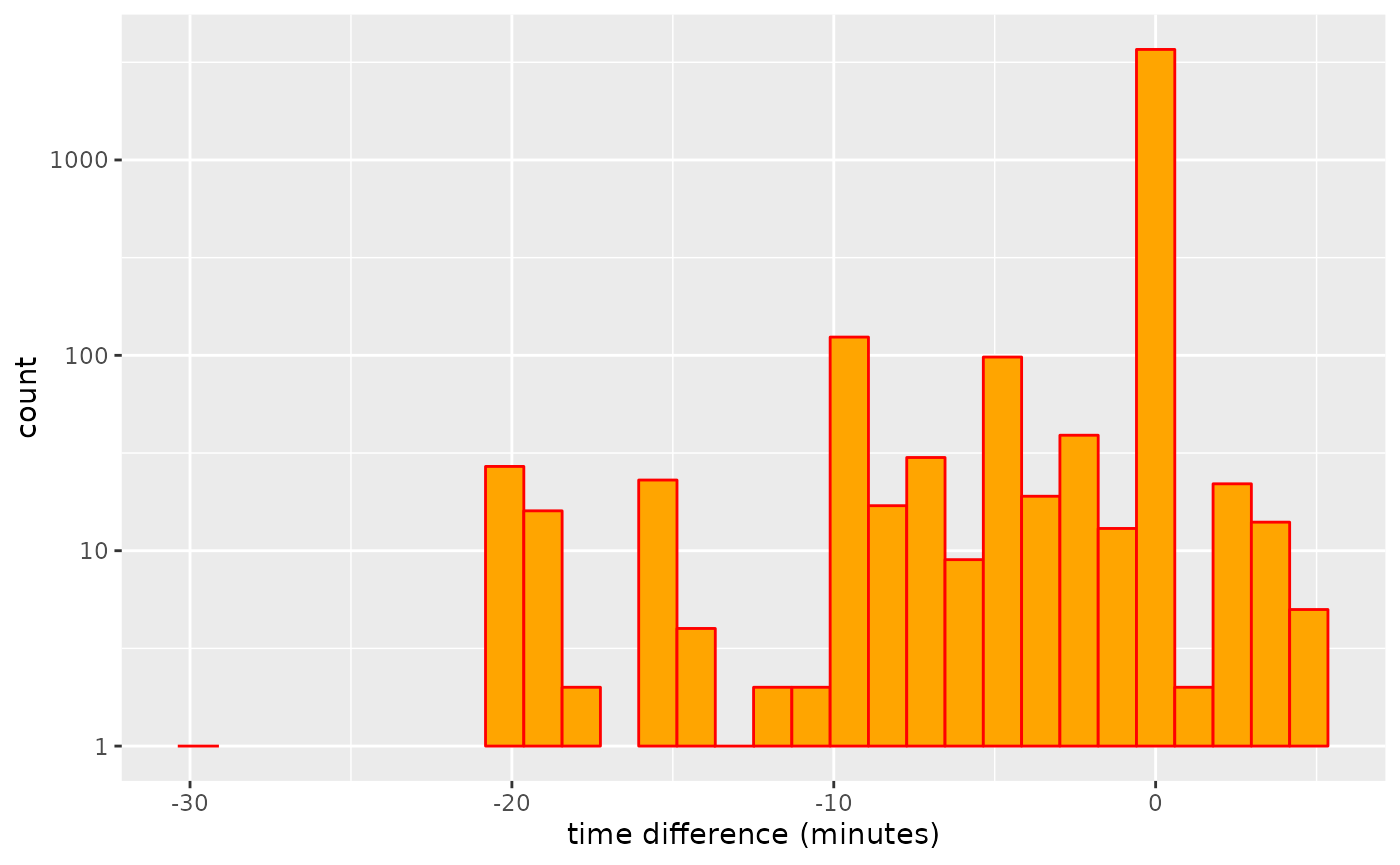
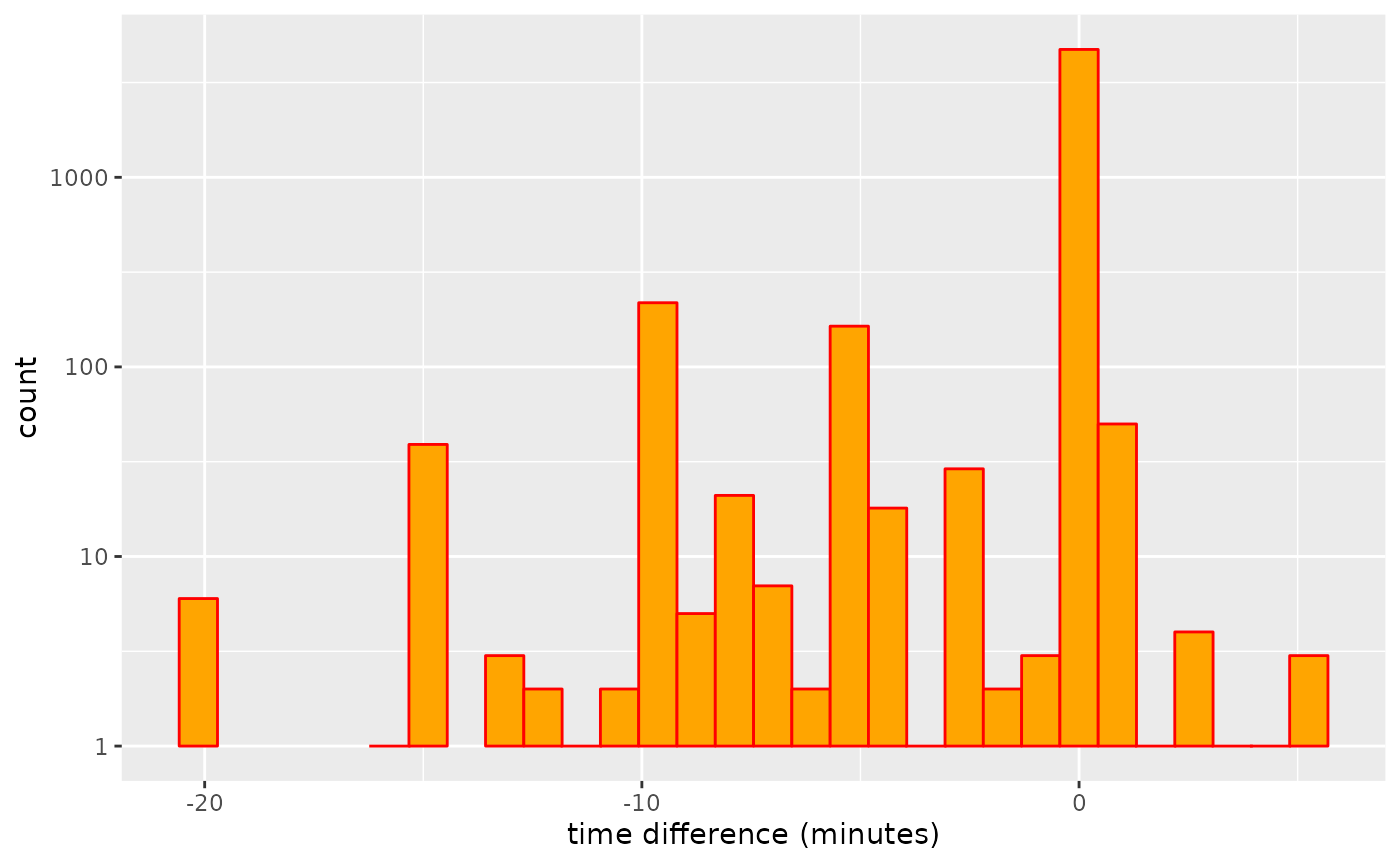
Deploying to gh-pages from @ ATFutures/gtfs-router@710cb2725167a15fc9db3aaeee1c91d8430e2538 🚀

diff --git a/docs/articles/transfers.html b/docs/articles/transfers.html
@@ -33,7 +33,7 @@
       </button>
       <span class="navbar-brand">
         <a class="navbar-link" href="../index.html">gtfsrouter</a>
-        <span class="version label label-default" data-toggle="tooltip" data-placement="bottom" title="">0.0.5.101</span>
+        <span class="version label label-default" data-toggle="tooltip" data-placement="bottom" title="">0.0.5.102</span>
       </span>
     </div>
 
@@ -447,7 +447,7 @@
 <span>    <span class="fu"><a href="https://ggplot2.tidyverse.org/reference/scale_continuous.html" class="external-link">scale_y_log10</a></span> <span class="op">(</span><span class="op">)</span> <span class="op">+</span></span>
 <span>    <span class="fu"><a href="https://ggplot2.tidyverse.org/reference/labs.html" class="external-link">xlab</a></span> <span class="op">(</span><span class="st">"time difference (minutes)"</span><span class="op">)</span></span></code></pre></div>
 <p><img src="transfers_files/figure-html/plot1-1.png" width="700"></p>
-<p>And these additional transfer possibilities can make a significant difference to estimated travel times. Note, however, that the travel times only changed for 461 stations, while the value of <code>nsame</code> value recording numbers of stations for which travel times did not change was 3,896. Travel times may also increase as additional transfers may be used to reduce numbers of connecting services required for a particular trip, and the algorithm generally searches for connections with minimal numbers of transfers.</p>
+<p>And these additional transfer possibilities can make a significant difference to estimated travel times. Note, however, that the travel times only changed for 590 stations, while the value of <code>nsame</code> value recording numbers of stations for which travel times did not change was 3,677. Travel times may also increase as additional transfers may be used to reduce numbers of connecting services required for a particular trip, and the algorithm generally searches for connections with minimal numbers of transfers.</p>
 <p>The following code the quantifies the overall effect of these reductions in travel times, measured as the linear reduction in comparison with travel times calculated using the original transfers table provided with the feed. The function also returns the proportion of all stations for which travel times were affected by the modified transfer table.</p>
 <div class="sourceCode" id="cb42"><pre class="downlit sourceCode r">
 <code class="sourceCode R"><span><span class="va">transfer_difference</span> <span class="op">&lt;-</span> <span class="kw">function</span> <span class="op">(</span><span class="va">gtfs</span>,</span>
@@ -514,7 +514,7 @@
 <span>    <span class="fu"><a href="https://ggplot2.tidyverse.org/reference/geom_point.html" class="external-link">geom_point</a></span> <span class="op">(</span>pch <span class="op">=</span> <span class="fl">19</span>, col <span class="op">=</span> <span class="st">"orange"</span><span class="op">)</span> <span class="op">+</span></span>
 <span>    <span class="fu"><a href="https://ggplot2.tidyverse.org/reference/geom_smooth.html" class="external-link">geom_smooth</a></span> <span class="op">(</span>method <span class="op">=</span> <span class="st">"loess"</span>, formula <span class="op">=</span> <span class="st">"y ~ x"</span><span class="op">)</span></span></code></pre></div>
 <p><img src="transfers_files/figure-html/transfer_d_limit_results-1.png" width="700"></p>
-<p>That result shows that travel times do decrease with increasing limits of maximal transfer distance, although the overall effect is very minimal. The object <code>d</code> also records the proportion of station pairs for which modifications to the transfers table actually changed travel times, which in this case amounts to a mean value of 0.0061, clearly revealing that very few trips actually change.</p>
+<p>That result shows that travel times do decrease with increasing limits of maximal transfer distance, although the overall effect is very minimal. The object <code>d</code> also records the proportion of station pairs for which modifications to the transfers table actually changed travel times, which in this case amounts to a mean value of 0.0054, clearly revealing that very few trips actually change.</p>
 <div class="section level3">
 <h3 id="a-more-realistic-example">A more realistic example<a class="anchor" aria-label="anchor" href="#a-more-realistic-example"></a>
 </h3>

diff --git a/docs/articles/gtfsrouter.html b/docs/articles/gtfsrouter.html
@@ -33,7 +33,7 @@
       </button>
       <span class="navbar-brand">
         <a class="navbar-link" href="../index.html">gtfsrouter</a>
-        <span class="version label label-default" data-toggle="tooltip" data-placement="bottom" title="">0.0.5.101</span>
+        <span class="version label label-default" data-toggle="tooltip" data-placement="bottom" title="">0.0.5.102</span>
       </span>
     </div>
 
@@ -95,7 +95,7 @@
 <p>The one thing neither of these packages enable is the use of GTFS data for transit routing. The <code>gtfsrouter</code> package enables both one-to-one and one-to-many routing. Functionality is demonstrated here through the sample data set included with the package, provided by the “Verkehrsverbund Berlin-Brandenburg” (VBB; or Transport Network Berlin-Brandenburg). The <code>berlin_gtfs</code> data represents a reduced version of the full GTFS data, containing only six tables, and a timetable reduced to the single hour between 12:00-13:00. Like all GTFS software including <a href="https://github.com/r-transit/tidytransit" class="external-link"><code>tidytransit</code></a>, this package is designed to work directly with GTFS data in <code>.zip</code>-archived format, and so includes a helper function, <code><a href="../reference/berlin_gtfs_to_zip.html">berlin_gtfs_to_zip()</a></code>, which exports the internal data set to a locally-stored <code>.zip</code> archive in the <code><a href="https://rdrr.io/r/base/tempfile.html" class="external-link">tempdir()</a></code> of the current <strong>R</strong> session. These data can be exported and re-imported with:</p>
 <div class="sourceCode" id="cb1"><pre class="downlit sourceCode r">
 <code class="sourceCode R"><span><span class="fu"><a href="../reference/berlin_gtfs_to_zip.html">berlin_gtfs_to_zip</a></span><span class="op">(</span><span class="op">)</span></span></code></pre></div>
-<pre><code><span><span class="co">## [1] "/tmp/RtmpgCS5mX/vbb.zip"</span></span></code></pre>
+<pre><code><span><span class="co">## [1] "/tmp/RtmpgVlPrb/vbb.zip"</span></span></code></pre>
 <div class="sourceCode" id="cb3"><pre class="downlit sourceCode r">
 <code class="sourceCode R"><span><span class="va">f</span> <span class="op">&lt;-</span> <span class="fu"><a href="https://rdrr.io/r/base/file.path.html" class="external-link">file.path</a></span> <span class="op">(</span><span class="fu"><a href="https://rdrr.io/r/base/tempfile.html" class="external-link">tempdir</a></span> <span class="op">(</span><span class="op">)</span>, <span class="st">"vbb.zip"</span><span class="op">)</span></span>
 <span><span class="fu"><a href="https://rdrr.io/r/base/files.html" class="external-link">file.exists</a></span> <span class="op">(</span><span class="va">f</span><span class="op">)</span></span></code></pre></div>
@@ -286,7 +286,7 @@
 <span>                day <span class="op">=</span> <span class="st">"Sunday"</span><span class="op">)</span></span>
 <span>    <span class="op">)</span></span></code></pre></div>
 <pre><code><span><span class="co">##    user  system elapsed </span></span>
-<span><span class="co">##   0.065   0.000   0.064</span></span></code></pre>
+<span><span class="co">##    0.07    0.00    0.07</span></span></code></pre>
 <div class="sourceCode" id="cb14"><pre class="downlit sourceCode r">
 <code class="sourceCode R"><span><span class="fu"><a href="https://rdrr.io/r/base/names.html" class="external-link">names</a></span> <span class="op">(</span><span class="va">gtfs</span><span class="op">)</span></span></code></pre></div>
 <pre><code><span><span class="co">## [1] "calendar"   "routes"     "trips"      "stop_times" "stops"     </span></span>
@@ -304,7 +304,7 @@
 <span>                         to <span class="op">=</span> <span class="va">to</span>,</span>
 <span>                         start_time <span class="op">=</span> <span class="st">"12:00:00"</span><span class="op">)</span><span class="op">)</span></span></code></pre></div>
 <pre><code><span><span class="co">##    user  system elapsed </span></span>
-<span><span class="co">##   0.049   0.000   0.049</span></span></code></pre>
+<span><span class="co">##   0.054   0.000   0.054</span></span></code></pre>
 <p>Note that the <code>day</code> parameter is used to extract the timetable, after which it is no longer required in the actual call to <code><a href="../reference/gtfs_route.html">gtfs_route()</a></code>.</p>
 </div>
 <div class="section level3">

diff --git a/docs/reference/gtfs_transfer_table.html b/docs/reference/gtfs_transfer_table.html
@@ -17,7 +17,7 @@
       </button>
       <span class="navbar-brand">
         <a class="navbar-link" href="../index.html">gtfsrouter</a>
-        <span class="version label label-default" data-toggle="tooltip" data-placement="bottom" title="">0.0.5.101</span>
+        <span class="version label label-default" data-toggle="tooltip" data-placement="bottom" title="">0.0.5.102</span>
       </span>
     </div>
 
@@ -112,7 +112,7 @@ throughout the underlying street network. If this is not provided as the
     <div id="ref-examples">
     <h2>Examples</h2>
     <div class="sourceCode"><pre class="sourceCode r"><code><span class="r-in"><span><span class="fu"><a href="berlin_gtfs_to_zip.html">berlin_gtfs_to_zip</a></span> <span class="op">(</span><span class="op">)</span></span></span>
-<span class="r-out co"><span class="r-pr">#&gt;</span> [1] "/tmp/RtmpMFn162/vbb.zip"</span>
+<span class="r-out co"><span class="r-pr">#&gt;</span> [1] "/tmp/RtmppdXH55/vbb.zip"</span>
 <span class="r-in"><span><span class="va">f</span> <span class="op">&lt;-</span> <span class="fu"><a href="https://rdrr.io/r/base/file.path.html" class="external-link">file.path</a></span> <span class="op">(</span><span class="fu"><a href="https://rdrr.io/r/base/tempfile.html" class="external-link">tempdir</a></span> <span class="op">(</span><span class="op">)</span>, <span class="st">"vbb.zip"</span><span class="op">)</span></span></span>
 <span class="r-in"><span><span class="va">g</span> <span class="op">&lt;-</span> <span class="fu"><a href="extract_gtfs.html">extract_gtfs</a></span> <span class="op">(</span><span class="va">f</span>, quiet <span class="op">=</span> <span class="cn">TRUE</span><span class="op">)</span></span></span>
 <span class="r-in"><span><span class="va">g</span> <span class="op">&lt;-</span> <span class="fu">gtfs_transfer_table</span> <span class="op">(</span><span class="va">g</span>, d_limit <span class="op">=</span> <span class="fl">200</span><span class="op">)</span></span></span>

diff --git a/docs/reference/gtfs_route.html b/docs/reference/gtfs_route.html
@@ -18,7 +18,7 @@ a specified time."><!-- mathjax --><script src="https://cdnjs.cloudflare.com/aja
       </button>
       <span class="navbar-brand">
         <a class="navbar-link" href="../index.html">gtfsrouter</a>
-        <span class="version label label-default" data-toggle="tooltip" data-placement="bottom" title="">0.0.5.101</span>
+        <span class="version label label-default" data-toggle="tooltip" data-placement="bottom" title="">0.0.5.102</span>
       </span>
     </div>
 
@@ -182,7 +182,7 @@ can be calculated by setting <code>earliest_arrival = FALSE</code>.</p>
     <div id="ref-examples">
     <h2>Examples</h2>
     <div class="sourceCode"><pre class="sourceCode r"><code><span class="r-in"><span><span class="fu"><a href="berlin_gtfs_to_zip.html">berlin_gtfs_to_zip</a></span> <span class="op">(</span><span class="op">)</span> <span class="co"># Write sample feed from Berlin, Germany to tempdir</span></span></span>
-<span class="r-out co"><span class="r-pr">#&gt;</span> [1] "/tmp/RtmpMFn162/vbb.zip"</span>
+<span class="r-out co"><span class="r-pr">#&gt;</span> [1] "/tmp/RtmppdXH55/vbb.zip"</span>
 <span class="r-in"><span><span class="va">f</span> <span class="op">&lt;-</span> <span class="fu"><a href="https://rdrr.io/r/base/file.path.html" class="external-link">file.path</a></span> <span class="op">(</span><span class="fu"><a href="https://rdrr.io/r/base/tempfile.html" class="external-link">tempdir</a></span> <span class="op">(</span><span class="op">)</span>, <span class="st">"vbb.zip"</span><span class="op">)</span> <span class="co"># name of feed</span></span></span>
 <span class="r-in"><span><span class="va">gtfs</span> <span class="op">&lt;-</span> <span class="fu"><a href="extract_gtfs.html">extract_gtfs</a></span> <span class="op">(</span><span class="va">f</span><span class="op">)</span></span></span>
 <span class="r-msg co"><span class="r-pr">#&gt;</span> ▶<span style="color: #00BB00;"> Unzipping GTFS archive</span></span>

diff --git a/docs/articles/traveltimes.html b/docs/articles/traveltimes.html
@@ -33,7 +33,7 @@
       </button>
       <span class="navbar-brand">
         <a class="navbar-link" href="../index.html">gtfsrouter</a>
-        <span class="version label label-default" data-toggle="tooltip" data-placement="bottom" title="">0.0.5.101</span>
+        <span class="version label label-default" data-toggle="tooltip" data-placement="bottom" title="">0.0.5.102</span>
       </span>
     </div>
 
@@ -86,7 +86,7 @@
 <div class="sourceCode" id="cb1"><pre class="downlit sourceCode r">
 <code class="sourceCode R"><span><span class="kw"><a href="https://rdrr.io/r/base/library.html" class="external-link">library</a></span> <span class="op">(</span><span class="va"><a href="https://github.com/ATFutures/gtfs-router" class="external-link">gtfsrouter</a></span><span class="op">)</span></span>
 <span><span class="fu"><a href="../reference/berlin_gtfs_to_zip.html">berlin_gtfs_to_zip</a></span> <span class="op">(</span><span class="op">)</span></span></code></pre></div>
-<pre><code><span><span class="co">## [1] "/tmp/RtmpFMMNQF/vbb.zip"</span></span></code></pre>
+<pre><code><span><span class="co">## [1] "/tmp/RtmpXQsC9t/vbb.zip"</span></span></code></pre>
 <div class="sourceCode" id="cb3"><pre class="downlit sourceCode r">
 <code class="sourceCode R"><span><span class="va">f</span> <span class="op">&lt;-</span> <span class="fu"><a href="https://rdrr.io/r/base/file.path.html" class="external-link">file.path</a></span> <span class="op">(</span><span class="fu"><a href="https://rdrr.io/r/base/tempfile.html" class="external-link">tempdir</a></span> <span class="op">(</span><span class="op">)</span>, <span class="st">"vbb.zip"</span><span class="op">)</span></span>
 <span><span class="va">gtfs</span> <span class="op">&lt;-</span> <span class="fu"><a href="../reference/extract_gtfs.html">extract_gtfs</a></span> <span class="op">(</span><span class="va">f</span>, quiet <span class="op">=</span> <span class="cn">TRUE</span><span class="op">)</span></span>

diff --git a/docs/reference/berlin_gtfs.html b/docs/reference/berlin_gtfs.html
@@ -23,7 +23,7 @@ characters.'><!-- mathjax --><script src="https://cdnjs.cloudflare.com/ajax/libs
       </button>
       <span class="navbar-brand">
         <a class="navbar-link" href="../index.html">gtfsrouter</a>
-        <span class="version label label-default" data-toggle="tooltip" data-placement="bottom" title="">0.0.5.101</span>
+        <span class="version label label-default" data-toggle="tooltip" data-placement="bottom" title="">0.0.5.102</span>
       </span>
     </div>
 
@@ -96,7 +96,7 @@ for which no route is possible return <code>NULL</code>.</p>
     <div id="ref-examples">
     <h2>Examples</h2>
     <div class="sourceCode"><pre class="sourceCode r"><code><span class="r-in"><span><span class="fu"><a href="berlin_gtfs_to_zip.html">berlin_gtfs_to_zip</a></span> <span class="op">(</span><span class="op">)</span> <span class="co"># Write sample feed from Berlin, Germany to tempdir</span></span></span>
-<span class="r-out co"><span class="r-pr">#&gt;</span> [1] "/tmp/RtmpMFn162/vbb.zip"</span>
+<span class="r-out co"><span class="r-pr">#&gt;</span> [1] "/tmp/RtmppdXH55/vbb.zip"</span>
 <span class="r-in"><span><span class="va">f</span> <span class="op">&lt;-</span> <span class="fu"><a href="https://rdrr.io/r/base/file.path.html" class="external-link">file.path</a></span> <span class="op">(</span><span class="fu"><a href="https://rdrr.io/r/base/tempfile.html" class="external-link">tempdir</a></span> <span class="op">(</span><span class="op">)</span>, <span class="st">"vbb.zip"</span><span class="op">)</span> <span class="co"># name of feed</span></span></span>
 <span class="r-in"><span><span class="va">gtfs</span> <span class="op">&lt;-</span> <span class="fu"><a href="extract_gtfs.html">extract_gtfs</a></span> <span class="op">(</span><span class="va">f</span><span class="op">)</span></span></span>
 <span class="r-msg co"><span class="r-pr">#&gt;</span> ▶<span style="color: #00BB00;"> Unzipping GTFS archive</span></span>

diff --git a/docs/reference/gtfs_timetable.html b/docs/reference/gtfs_timetable.html
@@ -17,7 +17,7 @@
       </button>
       <span class="navbar-brand">
         <a class="navbar-link" href="../index.html">gtfsrouter</a>
-        <span class="version label label-default" data-toggle="tooltip" data-placement="bottom" title="">0.0.5.101</span>
+        <span class="version label label-default" data-toggle="tooltip" data-placement="bottom" title="">0.0.5.102</span>
       </span>
     </div>
 
@@ -126,7 +126,7 @@ that case will generally take longer.</p>
     <div id="ref-examples">
     <h2>Examples</h2>
     <div class="sourceCode"><pre class="sourceCode r"><code><span class="r-in"><span><span class="fu"><a href="berlin_gtfs_to_zip.html">berlin_gtfs_to_zip</a></span> <span class="op">(</span><span class="op">)</span> <span class="co"># Write sample feed from Berlin, Germany to tempdir</span></span></span>
-<span class="r-out co"><span class="r-pr">#&gt;</span> [1] "/tmp/RtmpMFn162/vbb.zip"</span>
+<span class="r-out co"><span class="r-pr">#&gt;</span> [1] "/tmp/RtmppdXH55/vbb.zip"</span>
 <span class="r-in"><span><span class="va">f</span> <span class="op">&lt;-</span> <span class="fu"><a href="https://rdrr.io/r/base/file.path.html" class="external-link">file.path</a></span> <span class="op">(</span><span class="fu"><a href="https://rdrr.io/r/base/tempfile.html" class="external-link">tempdir</a></span> <span class="op">(</span><span class="op">)</span>, <span class="st">"vbb.zip"</span><span class="op">)</span> <span class="co"># name of feed</span></span></span>
 <span class="r-in"><span><span class="va">gtfs</span> <span class="op">&lt;-</span> <span class="fu"><a href="extract_gtfs.html">extract_gtfs</a></span> <span class="op">(</span><span class="va">f</span><span class="op">)</span></span></span>
 <span class="r-msg co"><span class="r-pr">#&gt;</span> ▶<span style="color: #00BB00;"> Unzipping GTFS archive</span></span>

diff --git a/docs/reference/gtfs_traveltimes.html b/docs/reference/gtfs_traveltimes.html
@@ -18,7 +18,7 @@ other reachable station in a system."><!-- mathjax --><script src="https://cdnjs
       </button>
       <span class="navbar-brand">
         <a class="navbar-link" href="../index.html">gtfsrouter</a>
-        <span class="version label label-default" data-toggle="tooltip" data-placement="bottom" title="">0.0.5.101</span>
+        <span class="version label label-default" data-toggle="tooltip" data-placement="bottom" title="">0.0.5.102</span>
       </span>
     </div>
 
@@ -155,7 +155,7 @@ to reach all or most stations desired for a particular query, rather than set
     <div id="ref-examples">
     <h2>Examples</h2>
     <div class="sourceCode"><pre class="sourceCode r"><code><span class="r-in"><span><span class="fu"><a href="berlin_gtfs_to_zip.html">berlin_gtfs_to_zip</a></span> <span class="op">(</span><span class="op">)</span></span></span>
-<span class="r-out co"><span class="r-pr">#&gt;</span> [1] "/tmp/RtmpMFn162/vbb.zip"</span>
+<span class="r-out co"><span class="r-pr">#&gt;</span> [1] "/tmp/RtmppdXH55/vbb.zip"</span>
 <span class="r-in"><span><span class="va">f</span> <span class="op">&lt;-</span> <span class="fu"><a href="https://rdrr.io/r/base/file.path.html" class="external-link">file.path</a></span> <span class="op">(</span><span class="fu"><a href="https://rdrr.io/r/base/tempfile.html" class="external-link">tempdir</a></span> <span class="op">(</span><span class="op">)</span>, <span class="st">"vbb.zip"</span><span class="op">)</span></span></span>
 <span class="r-in"><span><span class="va">g</span> <span class="op">&lt;-</span> <span class="fu"><a href="extract_gtfs.html">extract_gtfs</a></span> <span class="op">(</span><span class="va">f</span><span class="op">)</span></span></span>
 <span class="r-msg co"><span class="r-pr">#&gt;</span> ▶<span style="color: #00BB00;"> Unzipping GTFS archive</span></span>

diff --git a/docs/reference/extract_gtfs.html b/docs/reference/extract_gtfs.html
@@ -17,7 +17,7 @@
       </button>
       <span class="navbar-brand">
         <a class="navbar-link" href="../index.html">gtfsrouter</a>
-        <span class="version label label-default" data-toggle="tooltip" data-placement="bottom" title="">0.0.5.101</span>
+        <span class="version label label-default" data-toggle="tooltip" data-placement="bottom" title="">0.0.5.102</span>
       </span>
     </div>
 
@@ -102,7 +102,7 @@ function to the two time columns of the "stop_times" table.</p>
     <div id="ref-examples">
     <h2>Examples</h2>
     <div class="sourceCode"><pre class="sourceCode r"><code><span class="r-in"><span><span class="fu"><a href="berlin_gtfs_to_zip.html">berlin_gtfs_to_zip</a></span> <span class="op">(</span><span class="op">)</span> <span class="co"># Write sample feed from Berlin, Germany to tempdir</span></span></span>
-<span class="r-out co"><span class="r-pr">#&gt;</span> [1] "/tmp/RtmpMFn162/vbb.zip"</span>
+<span class="r-out co"><span class="r-pr">#&gt;</span> [1] "/tmp/RtmppdXH55/vbb.zip"</span>
 <span class="r-in"><span><span class="va">f</span> <span class="op">&lt;-</span> <span class="fu"><a href="https://rdrr.io/r/base/file.path.html" class="external-link">file.path</a></span> <span class="op">(</span><span class="fu"><a href="https://rdrr.io/r/base/tempfile.html" class="external-link">tempdir</a></span> <span class="op">(</span><span class="op">)</span>, <span class="st">"vbb.zip"</span><span class="op">)</span> <span class="co"># name of feed</span></span></span>
 <span class="r-in"><span><span class="va">gtfs</span> <span class="op">&lt;-</span> <span class="fu">extract_gtfs</span> <span class="op">(</span><span class="va">f</span><span class="op">)</span></span></span>
 <span class="r-msg co"><span class="r-pr">#&gt;</span> ▶<span style="color: #00BB00;"> Unzipping GTFS archive</span></span>

diff --git a/docs/reference/summary.gtfs.html b/docs/reference/summary.gtfs.html
@@ -17,7 +17,7 @@
       </button>
       <span class="navbar-brand">
         <a class="navbar-link" href="../index.html">gtfsrouter</a>
-        <span class="version label label-default" data-toggle="tooltip" data-placement="bottom" title="">0.0.5.101</span>
+        <span class="version label label-default" data-toggle="tooltip" data-placement="bottom" title="">0.0.5.102</span>
       </span>
     </div>
 
@@ -81,7 +81,7 @@
     <div id="ref-examples">
     <h2>Examples</h2>
     <div class="sourceCode"><pre class="sourceCode r"><code><span class="r-in"><span><span class="fu"><a href="berlin_gtfs_to_zip.html">berlin_gtfs_to_zip</a></span> <span class="op">(</span><span class="op">)</span></span></span>
-<span class="r-out co"><span class="r-pr">#&gt;</span> [1] "/tmp/RtmpMFn162/vbb.zip"</span>
+<span class="r-out co"><span class="r-pr">#&gt;</span> [1] "/tmp/RtmppdXH55/vbb.zip"</span>
 <span class="r-in"><span><span class="va">f</span> <span class="op">&lt;-</span> <span class="fu"><a href="https://rdrr.io/r/base/file.path.html" class="external-link">file.path</a></span> <span class="op">(</span><span class="fu"><a href="https://rdrr.io/r/base/tempfile.html" class="external-link">tempdir</a></span> <span class="op">(</span><span class="op">)</span>, <span class="st">"vbb.zip"</span><span class="op">)</span></span></span>
 <span class="r-in"><span><span class="va">g</span> <span class="op">&lt;-</span> <span class="fu"><a href="extract_gtfs.html">extract_gtfs</a></span> <span class="op">(</span><span class="va">f</span><span class="op">)</span></span></span>
 <span class="r-msg co"><span class="r-pr">#&gt;</span> ▶<span style="color: #00BB00;"> Unzipping GTFS archive</span></span>

diff --git a/docs/authors.html b/docs/authors.html
@@ -17,7 +17,7 @@
       </button>
       <span class="navbar-brand">
         <a class="navbar-link" href="index.html">gtfsrouter</a>
-        <span class="version label label-default" data-toggle="tooltip" data-placement="bottom" title="">0.0.5.101</span>
+        <span class="version label label-default" data-toggle="tooltip" data-placement="bottom" title="">0.0.5.102</span>
       </span>
     </div>
 
@@ -74,13 +74,13 @@
 
     <p>Padgham M, Stepniak M (2022).
 <em>gtfsrouter: Routing with GTFS (General Transit Feed Specification) Data</em>.
-R package version 0.0.5.101, <a href="https://github.com/ATFutures/gtfs-router" class="external-link">https://github.com/ATFutures/gtfs-router</a>. 
+R package version 0.0.5.102, <a href="https://github.com/ATFutures/gtfs-router" class="external-link">https://github.com/ATFutures/gtfs-router</a>. 
 </p>
     <pre>@Manual{,
   title = {gtfsrouter: Routing with GTFS (General Transit Feed Specification) Data},
   author = {Mark Padgham and Marcin Stepniak},
   year = {2022},
-  note = {R package version 0.0.5.101},
+  note = {R package version 0.0.5.102},
   url = {https://github.com/ATFutures/gtfs-router},
 }</pre>
 

diff --git a/docs/reference/berlin_gtfs_to_zip.html b/docs/reference/berlin_gtfs_to_zip.html
@@ -18,7 +18,7 @@ a file named "vbb.zip" to tempdir().'><!-- mathjax --><script src="https://cdnjs
       </button>
       <span class="navbar-brand">
         <a class="navbar-link" href="../index.html">gtfsrouter</a>
-        <span class="version label label-default" data-toggle="tooltip" data-placement="bottom" title="">0.0.5.101</span>
+        <span class="version label label-default" data-toggle="tooltip" data-placement="bottom" title="">0.0.5.102</span>
       </span>
     </div>
 
